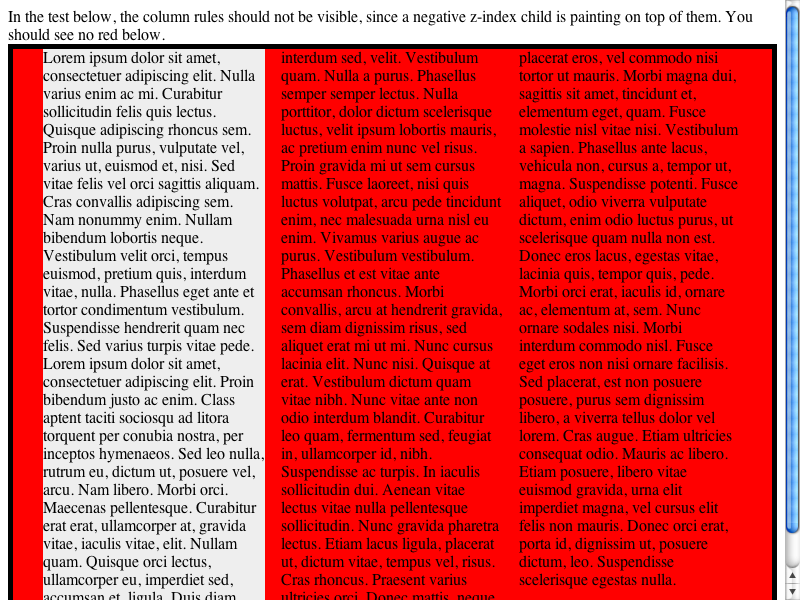
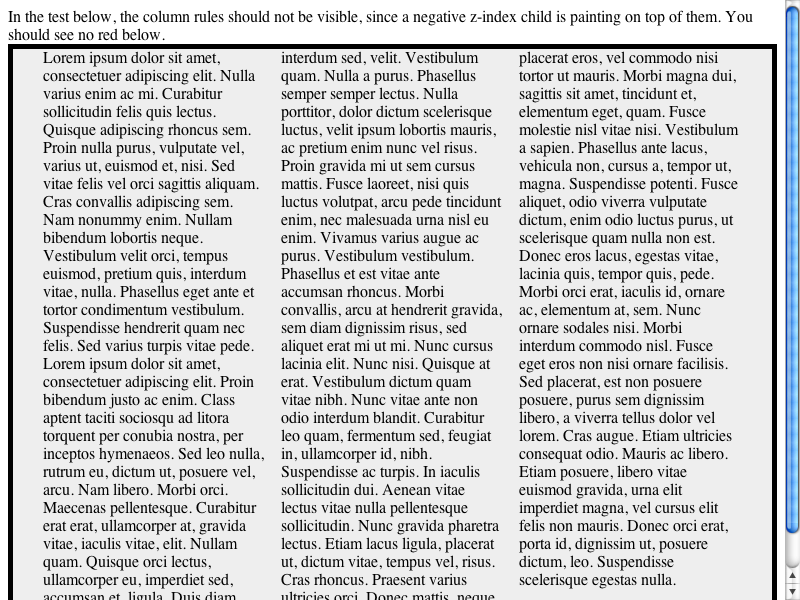
https://bugs.webkit.org/show_bug.cgi?id=45957, fix regression in column rules stacking test.
Reviewed by Simon Fraser.

WebCore: 

Rewrite how the pagination bit gets set in RenderLayers, since it was totally broken and not
accounting for whether or not the columns block was even in the layer's containing block
hierarchy.

* rendering/RenderLayer.cpp:
(WebCore::checkContainingBlockChainForPagination):
(WebCore::RenderLayer::updatePagination):

LayoutTests: 

* platform/mac/fast/multicol/column-rules-stacking-expected.checksum:
* platform/mac/fast/multicol/column-rules-stacking-expected.png:

git-svn-id: https://svn.webkit.org/repository/webkit/trunk@68069 268f45cc-cd09-0410-ab3c-d52691b4dbfc

diff --git a/WebCore/rendering/RenderLayer.cpp b/WebCore/rendering/RenderLayer.cpp
@@ -468,6 +468,28 @@ TransformationMatrix RenderLayer::renderableTransform(PaintBehavior paintBehavio
     return *m_transform;
 }
 
+static bool checkContainingBlockChainForPagination(RenderBoxModelObject* renderer, RenderBox* ancestorColumnsRenderer)
+{
+    RenderView* view = renderer->view();
+    RenderBoxModelObject* prevBlock = renderer;
+    RenderBlock* containingBlock;
+    for (containingBlock = renderer->containingBlock();
+         containingBlock && containingBlock != view && containingBlock != ancestorColumnsRenderer;
+         containingBlock = containingBlock->containingBlock())
+        prevBlock = containingBlock;
+    
+    // If the columns block wasn't in our containing block chain, then we aren't paginated by it.
+    if (containingBlock != ancestorColumnsRenderer)
+        return false;
+        
+    // If the previous block is absolutely positioned, then we can't be paginated by the columns block.
+    if (prevBlock->isPositioned())
+        return false;
+        
+    // Otherwise we are paginated by the columns block.
+    return true;
+}
+
 void RenderLayer::updatePagination()
 {
     m_isPaginated = false;
@@ -484,10 +506,10 @@ void RenderLayer::updatePagination()
     RenderLayer* ancestorStackingContext = stackingContext();
     for (RenderLayer* curr = parent(); curr; curr = curr->parent()) {
         if (curr->renderer()->hasColumns()) {
-            m_isPaginated = true;
+            m_isPaginated = checkContainingBlockChainForPagination(renderer(), curr->renderBox());
             return;
         }
-        if (curr == ancestorStackingContext || (curr->parent() && curr->parent()->renderer()->isPositioned()))
+        if (curr == ancestorStackingContext)
             return;
     }
 }
